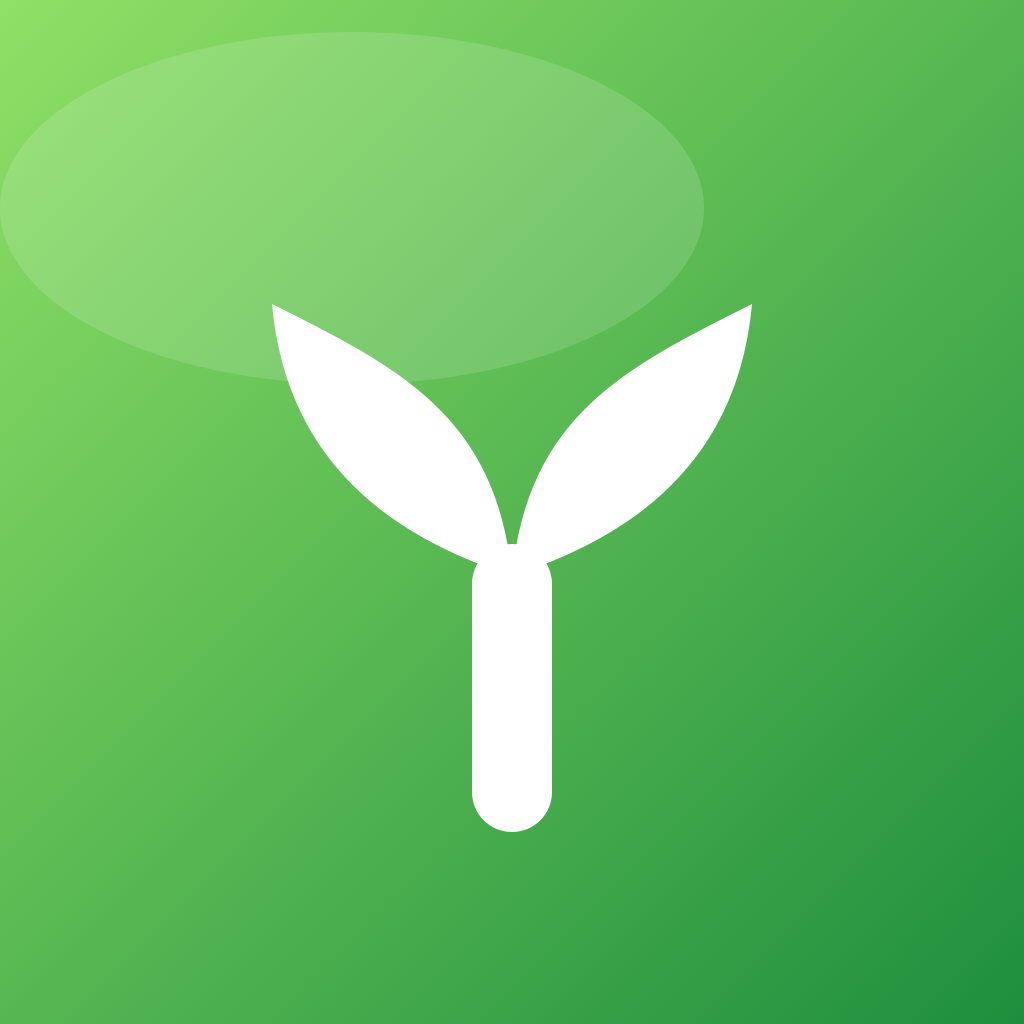
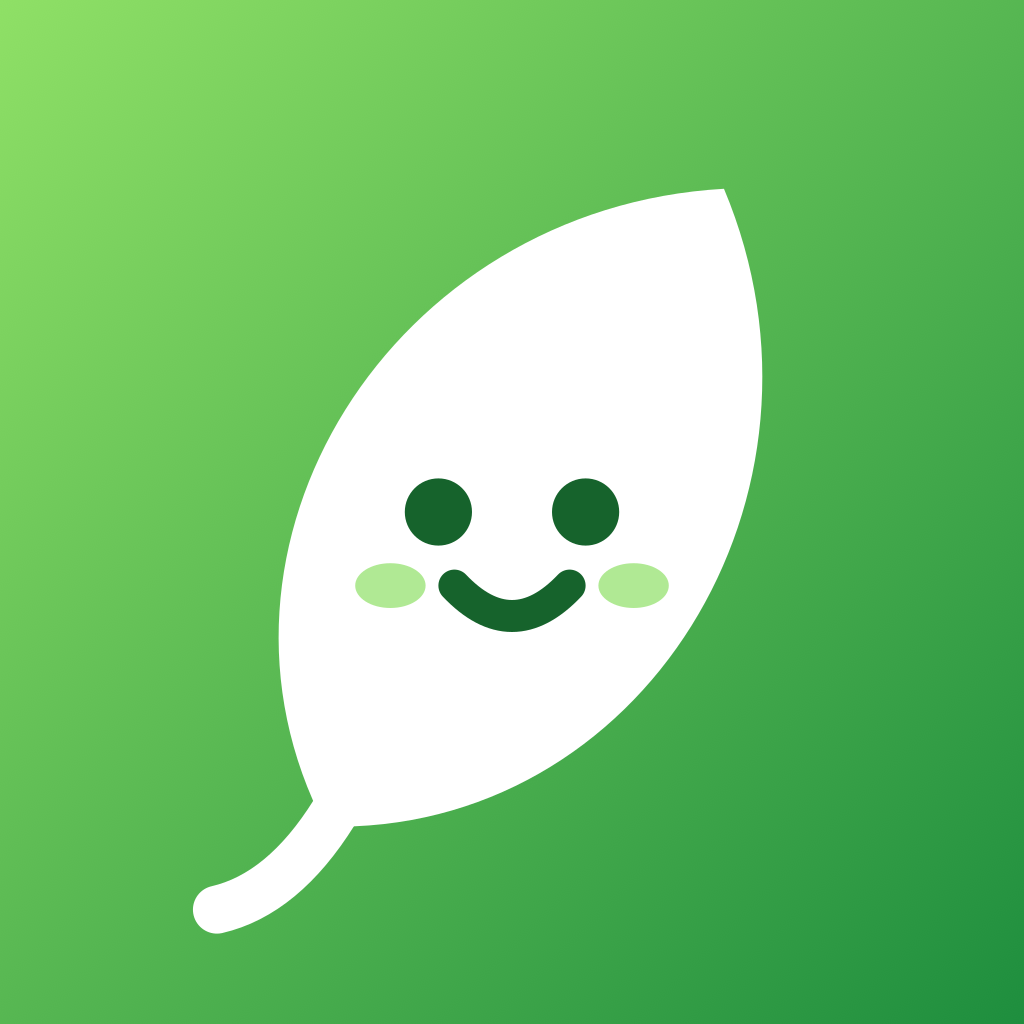
New App Name And Identity

Changed region(s): [[0.1875, 0.1875, 0.75, 0.9375]]

diff --git a/mobile/app/settings.tsx b/mobile/app/settings.tsx
@@ -50,7 +50,7 @@ export default function Settings() {
           {notifGranted === false ? (
             <>
               <Text className="text-base text-gray-600 mb-3">
-                Notifications are off, so Sproutly can't remind you to water.
+                Notifications are off, so Leafkin can't remind you to water.
               </Text>
               <PrimaryButton label="Turn on reminders" onPress={enableReminders} />
             </>
@@ -86,7 +86,7 @@ export default function Settings() {
 
         <Card title="✨ Ads">
           <Text className="text-base text-gray-600 mb-3">
-            {adFree ? "Ad-free — thank you for supporting Sproutly! 💚" : "Sproutly is free, supported by a few small ads."}
+            {adFree ? "Ad-free — thank you for supporting Leafkin! 💚" : "Leafkin is free, supported by a few small ads."}
           </Text>
           {!adFree && <PrimaryButton label="Remove ads" onPress={() => router.push("/remove-ads")} />}
           {!purchasesMockMode && (
@@ -101,7 +101,7 @@ export default function Settings() {
         </Card>
 
         <Card title="About">
-          <Text className="text-base text-gray-600">Sproutly v{Constants.expoConfig?.version}</Text>
+          <Text className="text-base text-gray-600">Leafkin v{Constants.expoConfig?.version}</Text>
           <Text className="text-sm text-gray-500 mt-2">
             Plant identification, care, health and edibility guidance is generated by AI and may occasionally be
             wrong. Never eat a wild plant based solely on this app — always confirm with a local expert first.

diff --git a/mobile/app/remove-ads.tsx b/mobile/app/remove-ads.tsx
@@ -12,7 +12,7 @@ const BENEFITS = [
   "🚫 No banners, anywhere in the app",
   `▶ No videos — up to ${DAILY_SCAN_CAP} scans a day, straight to results`,
   "💚 One payment, yours forever — not a subscription",
-  "🌱 Helps keep Sproutly free for everyone else",
+  "🌱 Helps keep Leafkin free for everyone else",
 ];
 
 export default function RemoveAds() {
@@ -46,7 +46,7 @@ export default function RemoveAds() {
   return (
     <SafeAreaView className="flex-1 bg-white">
       <ScrollView contentContainerStyle={{ padding: 24 }}>
-        <Text className="text-3xl font-extrabold text-leaf-900 mb-1">Sproutly, ad-free</Text>
+        <Text className="text-3xl font-extrabold text-leaf-900 mb-1">Leafkin, ad-free</Text>
         <Text className="text-base text-gray-600 mb-6">Everything stays free. This just makes it quieter.</Text>
 
         <View className="gap-3 mb-8">

diff --git a/mobile/app/plant/[id].tsx b/mobile/app/plant/[id].tsx
@@ -129,7 +129,7 @@ export default function PlantDetail() {
             <View className="flex-1">
               <Text className="text-base font-semibold text-leaf-900">Water every</Text>
               {suggested !== null && suggested !== plant.waterIntervalDays && (
-                <Text className="text-sm text-gray-500">Sproutly suggests {suggested} days</Text>
+                <Text className="text-sm text-gray-500">Leafkin suggests {suggested} days</Text>
               )}
             </View>
             <Stepper label={`${plant.waterIntervalDays} day${plant.waterIntervalDays === 1 ? "" : "s"}`} onMinus={() => changeInterval(-1)} onPlus={() => changeInterval(1)} />

diff --git a/mobile/app/plants.tsx b/mobile/app/plants.tsx
@@ -35,7 +35,7 @@ export default function MyPlants() {
           <Text className="text-5xl mb-4">🪴</Text>
           <Text className="text-xl font-bold text-leaf-900 text-center mb-2">No plants yet</Text>
           <Text className="text-base text-gray-600 text-center mb-6">
-            Scan a plant, then tap “Add to My Plants” — Sproutly will remind you when it needs water.
+            Scan a plant, then tap “Add to My Plants” — Leafkin will remind you when it needs water.
           </Text>
           <View className="w-full">
             <PrimaryButton label="📷 Scan a plant" onPress={() => router.push("/capture")} />

diff --git a/mobile/app/_layout.tsx b/mobile/app/_layout.tsx
@@ -45,7 +45,7 @@ export default function RootLayout() {
           headerShadowVisible: false,
         }}
       >
-        <Stack.Screen name="index" options={{ title: "Sproutly" }} />
+        <Stack.Screen name="index" options={{ title: "Leafkin" }} />
         <Stack.Screen name="capture" options={{ title: "New scan" }} />
         <Stack.Screen name="analyzing" options={{ title: "Analyzing…", headerBackVisible: false, gestureEnabled: false }} />
         <Stack.Screen name="result/[id]" options={{ title: "Your plant" }} />

diff --git a/mobile/app/result/[id].tsx b/mobile/app/result/[id].tsx
@@ -35,7 +35,7 @@ export default function Result() {
       if (!remindersOn) {
         Alert.alert(
           "Added — reminders are off",
-          "Allow notifications for Sproutly in your phone settings to get watering reminders."
+          "Allow notifications for Leafkin in your phone settings to get watering reminders."
         );
       }
     };

diff --git a/README.md b/README.md
@@ -1,4 +1,6 @@
-# PlantApp
+# Leafkin
+
+*(repo: PlantApp — app ID `com.leafkin.app`)*
 
 Point your camera at a plant. Get back: what it is, how to care for it, whether it looks
 healthy right now, and whether you can eat it (and why you'd want to, or definitely shouldn't).
@@ -95,8 +97,8 @@ before it can ship, because I can't create these on your behalf:
    users, lets Google use submitted photos, and isn't allowed for apps serving the EEA/UK/CH.
 
 Then, before submitting to the stores:
-- Replace the placeholder icons/splash in `mobile/assets/` (currently 1x1 px placeholders —
-  they exist only so the dev server doesn't error on a missing file).
+- App icon, adaptive icon and favicon are generated from `mobile/assets/favicon.svg` (the
+  Leafkin leaf). The splash image is still a 1x1 px placeholder.
 - Write a real privacy policy (required by both stores, and by AdMob) covering: photos sent to
   Gemini for analysis, and anonymous device usage tracking for the free-scan cap. Link it from
   `app/settings.tsx`.
